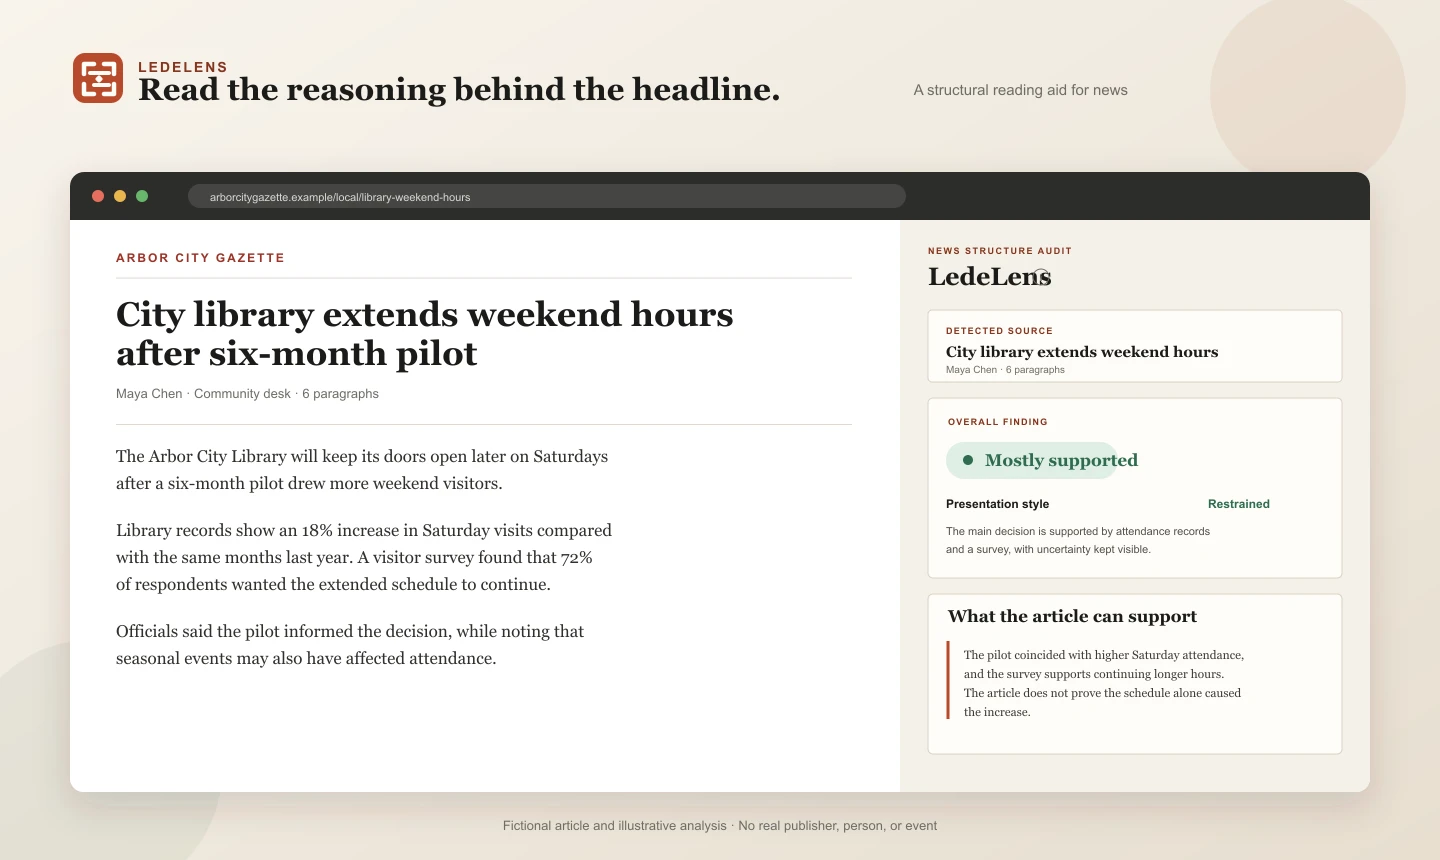
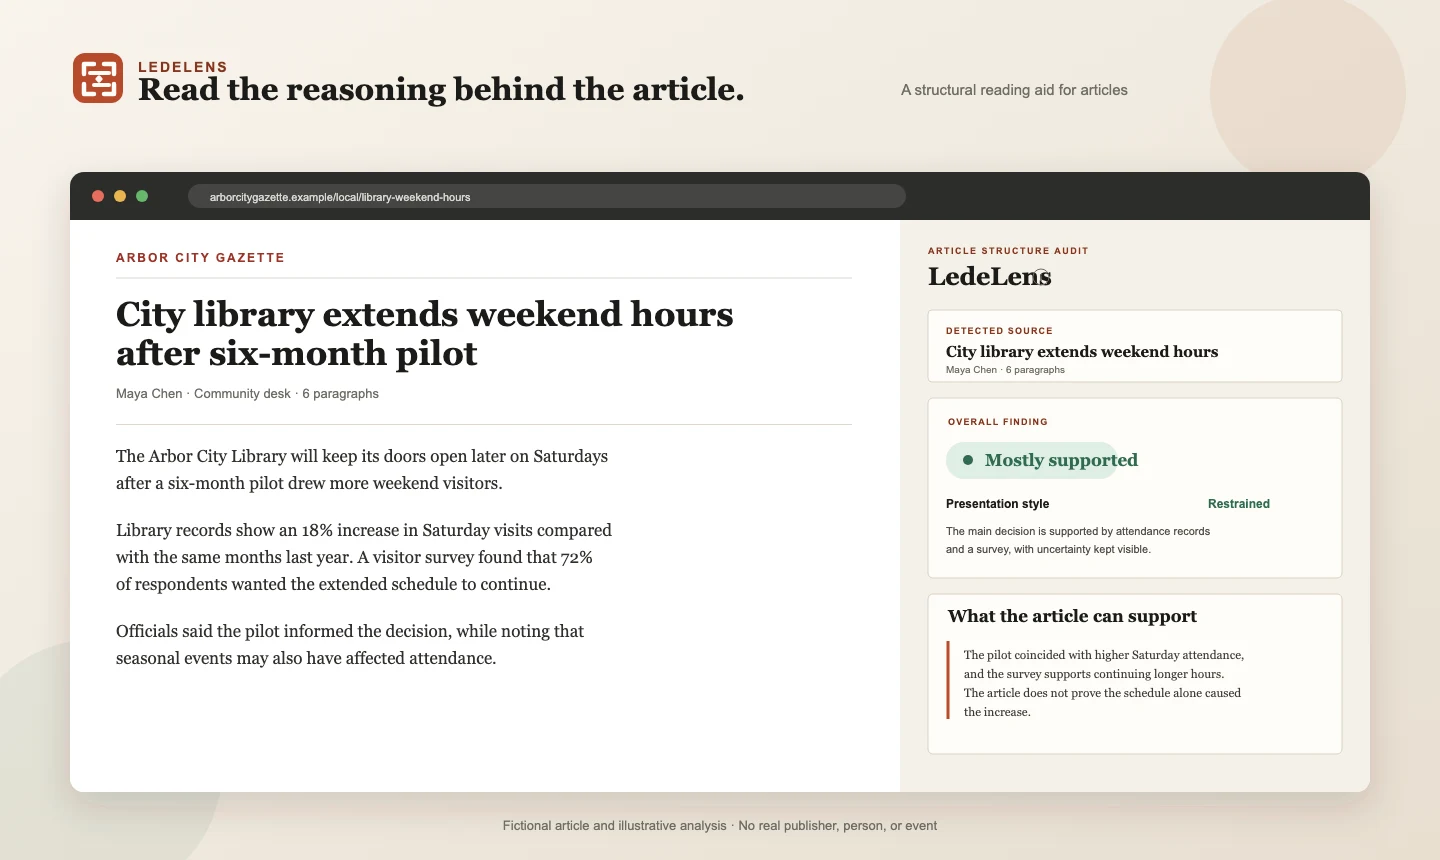
Prepare LedeLens 0.3.1 for Chrome Web Store

diff --git a/src/sidepanel/index.html b/src/sidepanel/index.html
@@ -9,7 +9,7 @@
   <body>
     <header class="masthead">
       <div>
-        <p class="eyebrow">News structure audit</p>
+        <p class="eyebrow">Article structure audit</p>
         <div class="product-title">
           <h1>LedeLens</h1>
           <span class="product-info" tabindex="0" aria-label="About LedeLens" aria-describedby="product-description">
@@ -17,7 +17,7 @@
               <circle cx="10" cy="10" r="8.5"></circle>
               <path d="M10 8.3v6M10 5.5h.01"></path>
             </svg>
-            <span id="product-description" class="product-tooltip" role="tooltip">See how well a news article supports its conclusions, handles cause and effect, and separates facts from interpretation and uncertainty—without fact-checking or judging its political viewpoint.</span>
+            <span id="product-description" class="product-tooltip" role="tooltip">See how well an article supports its conclusions, handles cause and effect, and separates facts from interpretation and uncertainty—without fact-checking or judging its viewpoint.</span>
           </span>
         </div>
       </div>

diff --git a/store/listing.md b/store/listing.md
@@ -4,17 +4,19 @@ This document is the canonical copy for the LedeLens Chrome Web Store submission
 
 ## Product details
 
-**Name:** LedeLens
+**Name:** LedeLens – Article Analysis
 
-**Summary:** See how well a news article supports its conclusions and separates reporting from interpretation.
+**Summary:** Analyze articles and passages for evidence, sources, causality, context, and framing—without fact-checking or bias ratings.
 
-**Category:** News & Weather
+**Category:** Tools
 
 **Language:** English
 
 ## Detailed description
 
-LedeLens is a reading companion for people who want a clearer view of how a news article is constructed.
+LedeLens helps you read articles more critically. Open an article-like webpage—or select a passage—and see how well its main takeaway is supported by the evidence, sources, causal reasoning, context, and distinction between reporting and interpretation presented on the page.
+
+Use it with news reports, opinion pieces, explainers, essays, and blog posts. LedeLens gives you a clear overall finding, practical questions to ask, material issues to watch, and paragraph-linked explanations. It analyzes internal support only: it does not fact-check claims, rate publishers, detect political bias, or judge an author's intent.
 
 Open an article, select the LedeLens toolbar icon, and choose **Analyze article**. LedeLens extracts the readable text and asks an OpenAI model selected by you to review five practical questions:
 
@@ -27,6 +29,8 @@ Open an article, select the LedeLens toolbar icon, and choose **Analyze article*
 The report emphasizes a plain-language overall finding, a bounded conclusion, source-linked observations, and up to three material issues to watch. Paragraph references let you return to the relevant part of the page.
 
 LedeLens evaluates structure, not truth. It does not fact-check an article, decide which political viewpoint is correct, or tell you what to believe.
+
+Built as a practical media-literacy and critical-reading aid, LedeLens helps readers ask better questions about evidence, sourcing, causality, context, and interpretation.
 
 ### Bring your own OpenAI API key
 

diff --git a/README.md b/README.md
@@ -1,13 +1,13 @@
 # LedeLens
 
-**Read the reasoning behind the headline.**
+**Read the reasoning behind the article.**
 
-LedeLens is an open-source Chrome extension that shows whether a news article's conclusions follow from the evidence it presents—without fact-checking the article or judging its political viewpoint.
+LedeLens is an open-source Chrome extension that shows whether an article's conclusions follow from the evidence it presents—without fact-checking the article or judging its viewpoint.
 
 [![License: Apache 2.0](https://img.shields.io/badge/License-Apache%202.0-blue.svg)](LICENSE)
 ![Chrome Manifest V3](https://img.shields.io/badge/Chrome-Manifest%20V3-4285F4)
 
-![LedeLens analyzing a fictional city-library article beside the news page](docs/assets/lede-lens-hero.webp)
+![LedeLens analyzing a fictional city-library article beside the source page](docs/assets/lede-lens-hero.webp)
 
 > **Scope:** LedeLens examines internal support, sourcing, cause and effect, missing context, and the separation of reporting from interpretation. Its findings are reading aids—not verdicts on truth, credibility, fairness, or intent.
 
@@ -71,7 +71,7 @@ Then:
 1. Open `chrome://extensions`.
 2. Enable **Developer mode**.
 3. Select **Load unpacked** and choose the repository folder.
-4. Open a news article and select the LedeLens toolbar icon.
+4. Open an article-like webpage and select the LedeLens toolbar icon.
 5. Enter your OpenAI API key, load the models available to that key, choose one, and confirm.
 6. Select **Analyze article**.
 
@@ -84,7 +84,7 @@ LedeLens is an early proof of concept installed as an unpacked Chrome extension.
 ## How it works
 
 ```text
-News article
+Article or selected passage
   → Mozilla Readability extracts the article locally
   → LedeLens assigns stable paragraph IDs
   → OpenAI returns a structured analysis

diff --git a/quick-start.md b/quick-start.md
@@ -38,7 +38,7 @@ When source files change, return to `chrome://extensions`, select LedeLens's rel
 
 ## 3. Connect OpenAI
 
-1. Open a regular news article on an `http://` or `https://` page.
+1. Open a regular article-like webpage on an `http://` or `https://` page.
 2. Select the LedeLens toolbar icon to open the side panel and grant access to the current tab.
 3. Open settings and paste your OpenAI API key.
 4. Select **Load available models**.

diff --git a/store/README.md b/store/README.md
@@ -12,4 +12,4 @@ the extension:
 
 Run `npm run check:store-assets` to validate required files and promotional
 image dimensions. Store screenshots must show the real extension UI and must
-not contain API keys, personal browser information, or real news articles.
+not contain API keys, personal browser information, or real articles.
